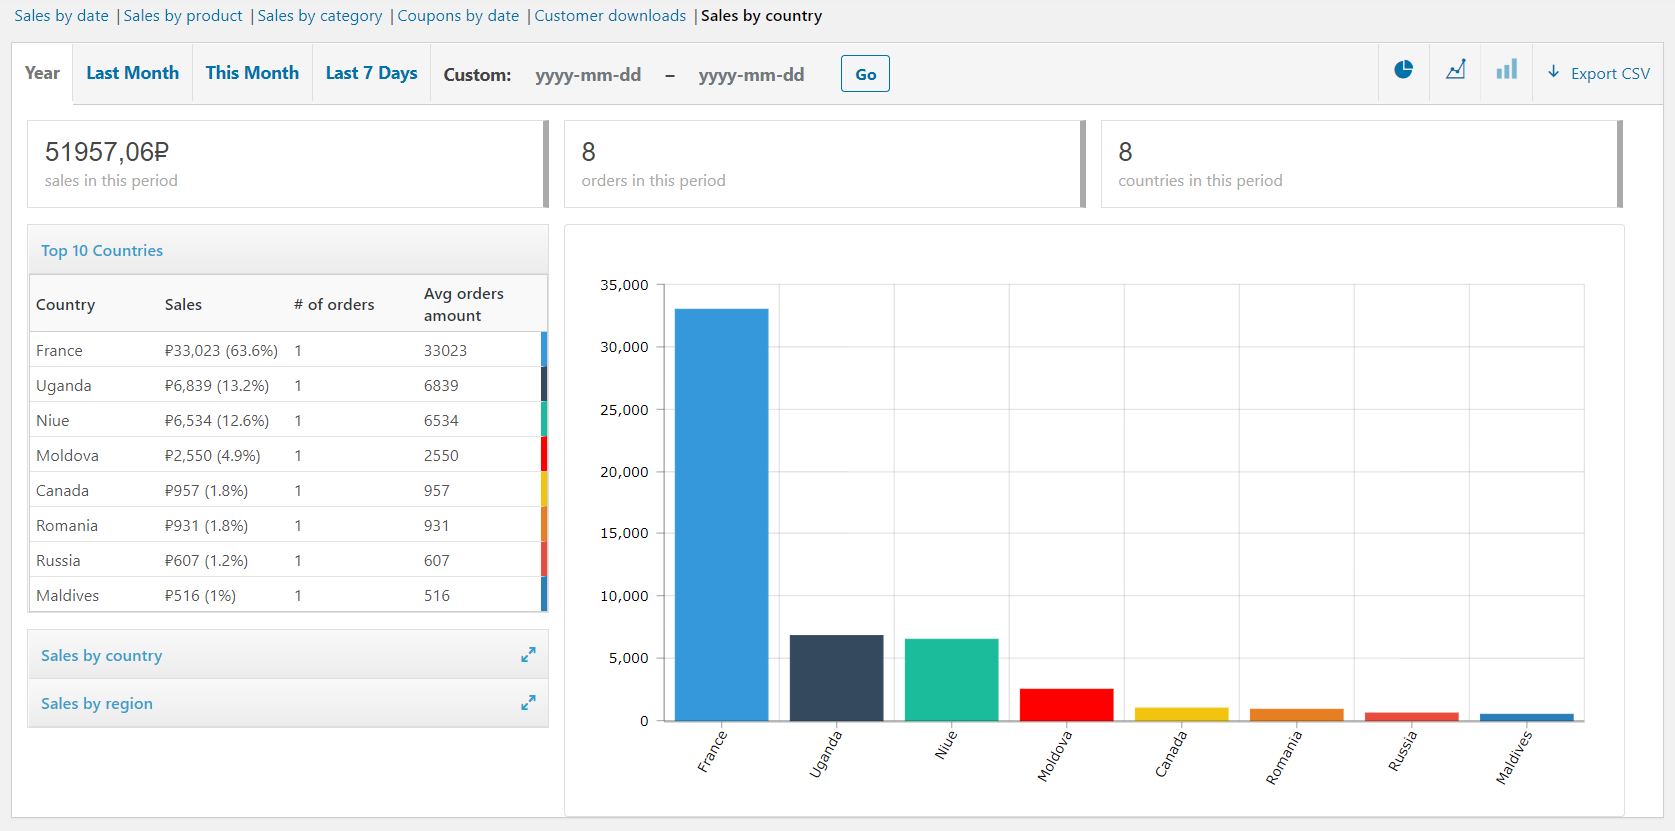
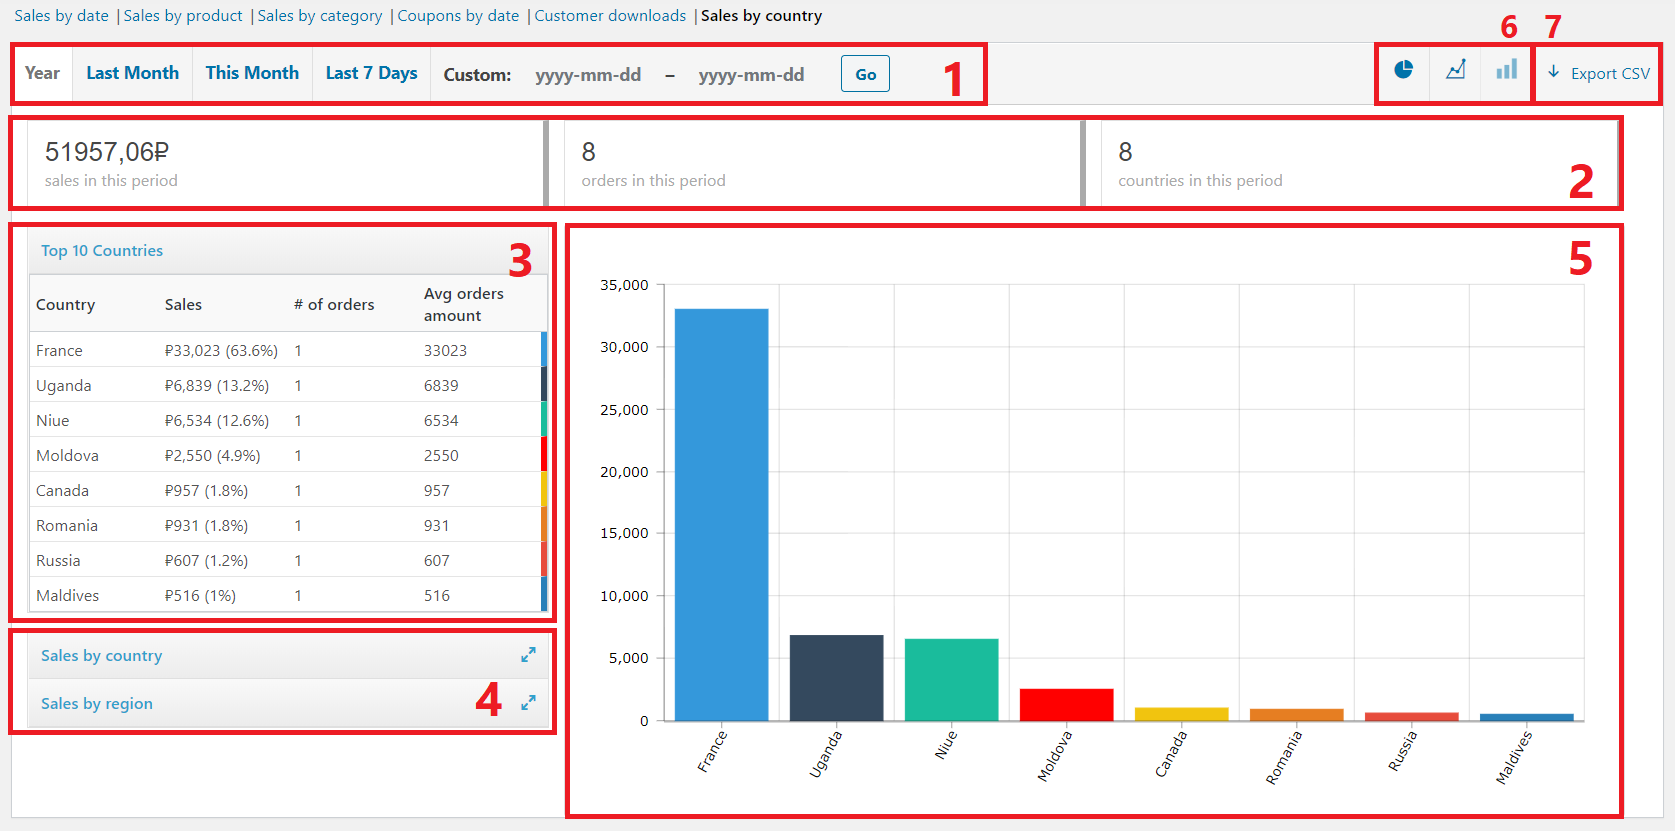
Beau's tutorial feedback

Changed region(s): [[0.0, 0.1805, 0.9934, 0.9025], [0.0, 0.0, 0.9934, 0.1504], [0.3415, 0.9627, 0.9624, 0.9928]]

diff --git a/wc-admin-sales-by-country/wc-admin-sales-by-country.php b/wc-admin-sales-by-country/wc-admin-sales-by-country.php
@@ -41,7 +41,7 @@ function add_wc_admin_sales_by_country_register_script() {
 	wp_enqueue_style( 'wc-admin-sales-by-country' );
 }
 
-function add_to_analytics_menu($report_pages) {
+function add_to_analytics_menu( $report_pages ) {
 
     $report_pages[] = array(
         'id' => 'wc-admin-sales-by-country',
@@ -53,10 +53,10 @@ function add_to_analytics_menu($report_pages) {
     return $report_pages;
 }
 
-add_action('admin_enqueue_scripts', 'add_wc_admin_sales_by_country_register_script');
+add_action( 'admin_enqueue_scripts', 'add_wc_admin_sales_by_country_register_script' );
 
-add_filter('woocommerce_analytics_report_menu_items', 'add_to_analytics_menu');
+add_filter( 'woocommerce_analytics_report_menu_items', 'add_to_analytics_menu' );
 
-add_action('init', function () {
-    wp_set_script_translations('wc-admin-sales-by-country', 'wc-admin-sales-by-country');
+add_action( 'init', function () {
+    wp_set_script_translations( 'wc-admin-sales-by-country', 'wc-admin-sales-by-country' );
 });

diff --git a/wc-admin-sales-by-country/tutorial/tutorial-sales_by_country.md b/wc-admin-sales-by-country/tutorial/tutorial-sales_by_country.md
@@ -8,18 +8,22 @@ If you've missed prior talk about this new JavaScript-focused experience that ha
 * [Integrating The New WooCommerce Navigation Bar](https://woocommerce.wordpress.com/2020/02/27/integrating-the-new-woocommerce-navigation-bar/)
 * [WooCommerce Admin Components](https://woocommerce.github.io/woocommerce-admin/#/components/)
 
-In this tutorial, we'll take a closer look at this new extensibility model. We're going to walk through the process of creating a **fully functional WooCommerce extension** that displays an independent analytics report, gets data from **WooCommerce REST API**, processes the data using JavaScript, gets a native look and feel by using a set of WooCommerce's own **library of React components**, integrates a **third-party component** when native components aren't enough, and gets by with only 60 lines of PHP code, of which 35 are generated.
+In this tutorial, we'll take a closer look at this new extensibility model. We're going to walk through the process of creating a **fully functional WooCommerce extension** that displays an independent analytics report, gets data from the **WooCommerce REST API**, processes the data using JavaScript, gets a native look and feel by using a set of WooCommerce's own **library of React components**, integrates a **third-party component** when native components aren't enough, and gets by with only 60 lines of PHP code, of which 35 are generated.
 
 By the end of the tutorial, the resulting extension should look like this:
 
 ![The resulting extension](img/expected_outcome.png)
+
+Full disclosure: this is a *long* tutorial. If you don't feel like following along, feel free to check out the [source code](https://github.com/gorohoroh/gorohoroh-wordpress-plugins/tree/master/wc-admin-sales-by-country) of the resulting extension.
+
+If you're ready to follow along, fasten your seatbelts, and let's see exactly what's ahead:
 
 - [What we're going to do](#what-were-going-to-do)
 - [What you'll need](#what-youll-need)
 - [Preparing to get started](#preparing-to-get-started)
 - [Creating a standalone report](#creating-a-standalone-report)
   * [Scaffolding with the starter pack](#scaffolding-with-the-starter-pack)
-  * [Making the extension discoverable via WordPress admin sidebar](#making-the-extension-discoverable-via-wordpress-admin-sidebar)
+  * [Making the extension discoverable via WordPress Admin sidebar](#making-the-extension-discoverable-via-wordpress-admin-sidebar)
   * [Integrating the extension into WooCommerce's own breadcrumbs navigation](#integrating-the-extension-into-woocommerces-own-breadcrumbs-navigation)
 - [Exploring available React components](#exploring-available-react-components)
 - [Extracting the extension's main React component to a separate file](#extracting-the-extensions-main-react-component-to-a-separate-file)
@@ -47,18 +51,18 @@ By the end of the tutorial, the resulting extension should look like this:
 
 To illustrate the new extensibility model driven by WooCommerce Admin, let's take an existing WooCommerce extension that makes heavy use of data visualization, and see how we can create something similar using JavaScript and React.
 
-The extension that we're going to take inspiration from is [Sales Report By Country for WooCommerce](https://www.zorem.com/products/woocommerce-sales-report-by-country/). The extension adds a new report tab that breaks down sales by country. It's available in WooCommerce's legacy *Reports* view (*WP-Admin | WooCommerce | Reports*), and looks like this:
+The extension that we're going to take inspiration from is [Sales Report By Country for WooCommerce](https://www.zorem.com/products/woocommerce-sales-report-by-country/). The extension adds a new report tab that breaks down sales by country. It's available in WooCommerce's legacy *Reports* view (*WP-Admin > WooCommerce > Reports*), and looks like this:
 
 ![Sales by Country extension](img/woo_sales_by_country.png)
 
 Let's break the extension down to individual components. It provides:
-* A date range selector.
-* An area to display total sales, orders and countries for a selected date range.
-* A leaderboard-style table representing top 10 countries where orders from a selected date range are coming from.
-* Country and region selectors that help focus on one or more countries or regions. Each of the selectors accepts multiple filters.
-* A chart area to visualize data based on selected filters.
-* Chart type controls. By default, a bar chart is used for visualization, but you can opt to use a line chart or a pie chart instead.
-* Export to CSV.
+1. A date range selector.
+2. An area to display total sales, orders and countries for a selected date range.
+3. A leaderboard-style table representing top 10 countries where orders from a selected date range are coming from.
+4. Country and region selectors that help focus on one or more countries or regions. Each of the selectors accepts multiple filters.
+5. A chart area to visualize data based on selected filters.
+6. Chart type controls. By default, a bar chart is used for visualization, but you can opt to use a line chart or a pie chart instead.
+7. Export to CSV.
 
 We will not necessarily try to implement all of these features, but we'll see how far we can go.
 
@@ -103,22 +107,22 @@ Here's how to generate boilerplate code for a new extension using the starter pa
     add_action( 'admin_enqueue_scripts', 'add_sample_sales_by_country_register_script' );
     ```
 
-5. Go to the admin area of your local WordPress installation, locate the new extension under *Plugins | Install Plugins*, and activate it.
+5. Go to the admin area of your local WordPress installation, locate the new extension under *Plugins > Installed Plugins*, and activate it.
 
-#### Making the extension discoverable via WordPress admin sidebar
+#### Making the extension discoverable via WordPress Admin sidebar
 
-Our extension is now live but it doesn't do anything. Let's start by making it discoverable in the section of WordPress Admin that WooCommerce uses.
+Our extension is now active but it doesn't do anything. Let's start by making it discoverable in the section of WordPress Admin (a.k.a. WP Admin) that WooCommerce uses.
 
-First, let's add a link to the extension's page to WordPress Admin's sidebar. All WooCommerce reports powered by WooCommerce Admin are available under the *Analytics* group, so we'll add our extension there as well. To do this, we'll need to hook into a backend filter called `woocommerce_analytics_report_menu_items`.
+First, let's add a link to the extension's page to WP Admin's sidebar. All WooCommerce reports powered by WooCommerce Admin are available under the *Analytics* group, so we'll add our extension there as well. To do this, we'll need to hook into a backend filter called `woocommerce_analytics_report_menu_items`.
 
 1. Open our extension's main PHP file, `sample-sales-by-country.php`.
 
 2. Add the following code to the end of the file:
 
     ```php
-    add_filter('woocommerce_analytics_report_menu_items', 'add_sample_sales_by_country_to_analytics_menu');
+    add_filter( 'woocommerce_analytics_report_menu_items', 'add_sample_sales_by_country_to_analytics_menu' );
     
-    function add_sample_sales_by_country_to_analytics_menu($report_pages) {
+    function add_sample_sales_by_country_to_analytics_menu( $report_pages ) {
         $report_pages[] = array(
             'id' => 'sample-sales-by-country',
             'title' => __('Sales by Country', 'sample-sales-by-country'),
@@ -132,11 +136,11 @@ First, let's add a link to the extension's page to WordPress Admin's sidebar. Al
 
 This will add our extension's page to the [list of pages](https://github.com/woocommerce/woocommerce-admin/blob/fe7b6cca7a095d1a39043bd1b38fc055cf0b121d/src/Features/Analytics.php#L77) that WooCommerce Admin's `Analytics` class registers with WordPress to show under its *Analytics* page group in the sidebar. Once you refresh the admin view of your local WordPress installation, you should be able to see our extension, "Sales by Country", listed in the sidebar under *Analytics*:
 
-![Our extension's entry in WordPress Admin's sidebar, under WooCommerce's Analytics](img/wp-admin-wc-analytics-menu-item.png)
+![Our extension's entry in WP Admin sidebar, under WooCommerce Analytics](img/wp-admin-wc-analytics-menu-item.png)
 
 #### Integrating the extension into WooCommerce's own breadcrumbs navigation
 
-When WooCommerce 4 integrates into WordPress admin area, it creates a breadcrumbs navigation system that tries to glue together WooCommerce pages that are somewhat scattered across the admin area:
+When WooCommerce 4 integrates into WP Admin, it creates a breadcrumbs navigation system that tries to glue together WooCommerce pages that are somewhat scattered across the admin area:
 
 ![WooCommerce breadcrumbs navigation](img/wc_breadcrumbs_navigation_area.png)
 
@@ -146,7 +150,7 @@ Let's add our extension to this navigation system right away. This is done on th
     ```shell script
     npm install @wordpress/hooks @wordpress/i18n @woocommerce/components
     ```
-2. Open our extension's entry JavaScript file, `src\index.js`.
+2. Open our extension's entry JavaScript file, `src/index.js`.
 
 3. Remove all existing code from `index.js`.  
 
@@ -179,7 +183,7 @@ Let's add our extension to this navigation system right away. This is done on th
     ```
 For more information about this filter, see [Extending Reports](https://github.com/woocommerce/woocommerce-admin/tree/fe7b6cca7a095d1a39043bd1b38fc055cf0b121d/client/analytics/report#extending-reports) in WooCommerce Admin documentation.
 
-After refreshing our report's page in WordPress admin, we should see the breadcrumbs navigation area correctly populated with the path to the report and its title:
+After refreshing our report's page in WP Admin, we should see the breadcrumbs navigation area correctly populated with the path to the report and its title:
 
 ![Breadcrumbs navigation for an extension](img/breadcrumbs_with_sales_by_country.png)
 
@@ -203,9 +207,9 @@ Now that we've discussed available React components, let's extract our main comp
 
 3. Under `SalesByCountryReport`, create a new JavaScript file, `SalesByCountryReport.js`.
 
-4. Open our extension's entry JavaScript file, `src\index.js`. Select and cut the stub React component that you created earlier, along with the import statement for `ReactComponent`:
+4. Open our extension's entry JavaScript file, `src/index.js`. Select and cut the stub React component that you created earlier, along with the import statement for `ReactComponent`:
     ```javascript
-   // src\index.js
+   // src/index.js
     import {Component as ReactComponent} from '@wordpress/element';
     
     export class SalesByCountryReport extends ReactComponent {
@@ -215,7 +219,7 @@ Now that we've discussed available React components, let's extract our main comp
 
 5. Go back to `SalesByCountryReport.js`, and paste the stub component and the import statement.
 
-6. Return to the entry file, `src\index.js`, and add a statement to import the extracted component:
+6. Return to the entry file, `src/index.js`, and add a statement to import the extracted component:
     ```javascript
     import {SalesByCountryReport} from "./components/SalesByCountryReport/SalesByCountryReport";
     ```
@@ -349,7 +353,7 @@ Now that the groundwork is complete, let's finally add a date range selector to 
         </Fragment>
     }
     ```
-   This is our actual date range selector, a.k.a the `ReportFilters` component, that React will render into the DOM whenever our main component, `SalesByCountryReport`, is initialized or updated. It takes quite a few props: some passed through directly from the main component, some coming from the main component's state (we'll get to this next). If you're wondering what the `Fragment` component is, it's just a way to [group multiple elements](https://reactjs.org/docs/fragments.html) returned by the `render()` method. Finally, the reason why we've extracted `ReportFilters` to a variable is that we'll later need to return this component both for the final UI and for placeholder UI while data is loading.
+   This is our actual date range selector, a.k.a. the `ReportFilters` component, that React will render into the DOM whenever our main component, `SalesByCountryReport`, is initialized or updated. It takes quite a few props: some passed through directly from the main component, some coming from the main component's state (we'll get to this next). If you're wondering what the `Fragment` component is, it's just a way to [group multiple elements](https://reactjs.org/docs/fragments.html) returned by the `render()` method. Finally, the reason why we've extracted `ReportFilters` to a variable is that we'll later need to return this component both for the final UI and for placeholder UI while data is loading.
 
 2. Replace the existing `constructor()` method of the `SalesByCountryReport` class with the following:
     ```javascript
@@ -459,7 +463,7 @@ Since `TableCard` requires quite a lot of configuration to define table headers,
     ```
    This is how we render our `CountryTable` component. It's still not declared though, so let's do this.
 
-4. Under `src\components`, create a new subdirectory, `CountryTable`. 
+4. Under `src/components`, create a new subdirectory, `CountryTable`. 
 
 5. Under `CountryTable`, create a new JavaScript file, `CountryTable.js`.
 
@@ -926,7 +930,7 @@ As you may recall, native chart components provided by WooCommerce are limited i
     ```
    This is all we need to do in our main component, `SalesByCountryReports`, and it's now time to actually create the chart component that we have already imported and called.
    
-5. Under `src\components`, create a new subdirectory, `CountryChart`. 
+5. Under `src/components`, create a new subdirectory, `CountryChart`. 
 
 6. Under `CountryChart`, create a new JavaScript file, `CountryChart.js`.
 
@@ -985,7 +989,7 @@ If we now refresh our extension's page in the browser, we should see something l
 
 Having a bird's-eye view of sales breakdown by country like this is useful, but still there's something missing. What if we want to see how much revenue came from a country represented by the 18th bar from the left? That's hard to do right now, and to make it easy, we need to implement a tooltip for the bar chart.
 
-1. Under `src\components`, create a new subdirectory, `CustomTooltip`. 
+1. Under `src/components`, create a new subdirectory, `CustomTooltip`. 
 
 2. Under `CustomTooltip`, create a new JavaScript file, `CustomTooltip.js`.
 
@@ -1032,7 +1036,7 @@ Having a bird's-eye view of sales breakdown by country like this is useful, but 
     ```
    `Tooltip` is Recharts' own tooltip component that allows to customize its content with the `content` prop. This prop receives a function that checks if the tooltip is currently active (that is, if the user has hovered over a bar in the chart), and if it is, it displays our own custom tooltip that we have just created and imported.
    
-6. Under `src\components\CountryChart`, create a new Scss stylesheet, `CountryChart.scss`.
+6. Under `src/components/CountryChart`, create a new Scss stylesheet, `CountryChart.scss`.
 
 7. Open `CountryChart.scss`, and paste the following styles:
     ```scss
@@ -1142,7 +1146,7 @@ We're almost done, and there's only one minor thing left to do. Our bar chart an
 
 Let's modify the table header to make it look consistent with the bar chart header:
 
-1. Go to `src\components\CountryTable`, and create a new Scss stylesheet, `CountryTable.scss`.
+1. Go to `src/components/CountryTable`, and create a new Scss stylesheet, `CountryTable.scss`.
 
 2. Open `CountryTable.scss`, and paste the following styles:
     ```scss
@@ -1166,7 +1170,7 @@ This should be enough to make the styles of the two headers look alike:
 
 ![Table and bar chart header styles made consistent](img/header_styles_after.png)
 
-Finally, let's get rid of something that we haven't used since it was generated: under `src\components`, delete the empty `index.scss` stylesheet.
+Finally, let's get rid of something that we haven't used since it was generated: under `src/components`, delete the empty `index.scss` stylesheet.
 
 ### That's it!
 
